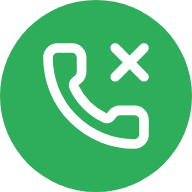
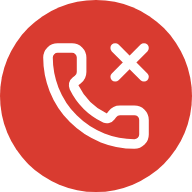
Контракт 1.14: трубка вида звонка перед текстом, пропущенный звонок красный (0.0.26)

diff --git a/internal/winui/ui.go b/internal/winui/ui.go
@@ -1161,7 +1161,8 @@ func (u *UI) drawCard(p painter, s *slot, cr rect) {
 	}
 	p.text(cardTitle(s.card), rect{left, 0, first - u.pi(6), u.pi(36)}, u.font(13, true), title, dtSingleLine|dtVCenter|dtEndEllipsis)
 	if s.card.Talking() { // «Разговор»: the number on one line, the buttons in words below
-		p.text(s.card.Body, rect{u.pi(14), u.pi(34), w - u.pi(12), u.pi(56)}, u.font(13, false), colBody, dtSingleLine|dtVCenter|dtEndEllipsis)
+		x := u.drawHandset(p, s, u.pi(45)-u.pi(handsetSize)/2)
+		p.text(s.card.Body, rect{x, u.pi(34), w - u.pi(12), u.pi(56)}, u.font(13, false), colBody, dtSingleLine|dtVCenter|dtEndEllipsis)
 		u.drawTalkButtons(p, s)
 	} else if s.pic != nil { // the sticker in place of the text; «Иван: Стикер» of a group stays next to it
 		size := u.pi(stickerPx)
@@ -1171,7 +1172,8 @@ func (u *UI) drawCard(p painter, s *slot, cr rect) {
 			p.text(s.card.Body, rect{x, u.pi(stickerTop), w - u.pi(12), u.pi(stickerTop) + size}, u.font(13, false), colMuted, dtWordBreak|dtEndEllipsis|dtEditControl)
 		}
 	} else {
-		p.text(s.card.Body, rect{u.pi(14), u.pi(34), w - u.pi(12), u.pi(70)}, u.font(13, false), colBody, dtWordBreak|dtEndEllipsis|dtEditControl)
+		x := u.drawHandset(p, s, u.pi(36)) // the middle of the first line of the text
+		p.text(s.card.Body, rect{x, u.pi(34), w - u.pi(12), u.pi(70)}, u.font(13, false), colBody, dtWordBreak|dtEndEllipsis|dtEditControl)
 	}
 	if s.card.Reply != nil {
 		u.drawReply(p, s)
@@ -1194,6 +1196,30 @@ func (u *UI) drawCard(p painter, s *slot, cr rect) {
 		p.round(at, colHint, colHint, u.pi(8))
 		p.text(cat.name, at, f, colWhite, dtSingleLine|dtVCenter|dtCenter)
 	}
+}
+
+// handsetSize: the handset of a call before the text (contract 1.14), px
+const handsetSize = 14
+
+// drawHandset draws the handset of the kind of the call at the start of the text, top at top; it returns where the
+// text begins.
+func (u *UI) drawHandset(p painter, s *slot, top int32) int32 {
+	left := u.pi(14)
+	if _, ok := handsetOf(s.card.CallKind); !ok {
+		return left
+	}
+	size := u.pi(handsetSize)
+	key := fmt.Sprint("phone", s.card.CallKind, size)
+	if u.dots == nil {
+		u.dots = map[string][]byte{}
+	}
+	pix, ok := u.dots[key]
+	if !ok {
+		pix = bgra(handset(s.card.CallKind, int(size)))
+		u.dots[key] = pix
+	}
+	p.pixels(pix, left, top, size, size)
+	return left + size + u.pi(5)
 }
 
 // iconPixels is the icon of a category of size px, kept for the next paints.

diff --git a/internal/winui/call.go b/internal/winui/call.go
@@ -1,0 +1,85 @@
+package winui
+
+import (
+	"bytes"
+	"embed"
+	"image"
+	"image/color"
+	"image/png"
+	"strings"
+	"sync"
+)
+
+// phone/<lucide>.png are the lucide handsets (the shapes of the CRM, 24 units drawn at 96×96): black strokes on
+// transparency, the alpha is the shape; handset tints them in the colour of the kind of the call.
+//
+//go:embed phone/*.png
+var phoneFiles embed.FS
+
+// handsetStyle is the handset of a kind of call (contract 1.14 §5.3.2).
+type handsetStyle struct {
+	icon  string // lucide
+	color color.RGBA
+}
+
+var (
+	handsetGrey = handsetStyle{"phone-call", rgba(0x8A, 0x8F, 0x98)} // an unknown kind
+	handsets    = map[string]handsetStyle{
+		"in":      {"phone-incoming", rgba(0x2E, 0xAD, 0x5B)},
+		"out":     {"phone-outgoing", rgba(0x33, 0x90, 0xEC)},
+		"missed":  {"phone-missed", rgba(0xD9, 0x3B, 0x30)},
+		"dropped": {"phone-off", rgba(0x8A, 0x8F, 0x98)},
+		"spam":    {"phone-incoming", rgba(0xF9, 0x73, 0x16)},
+		"ringing": {"phone-call", rgba(0x2E, 0xAD, 0x5B)},
+	}
+)
+
+// handsetOf: the handset of call_kind; false — not a call (no field).
+func handsetOf(kind string) (handsetStyle, bool) {
+	if kind == "" {
+		return handsetStyle{}, false
+	}
+	if h, ok := handsets[kind]; ok {
+		return h, true
+	}
+	return handsetGrey, true
+}
+
+var (
+	phonesOnce sync.Once
+	phones     map[string]image.Image
+)
+
+// handset is the handset of call_kind in its colour, size×size on the white of the card; nil — not a call.
+func handset(kind string, size int) *image.RGBA {
+	h, ok := handsetOf(kind)
+	if !ok {
+		return nil
+	}
+	phonesOnce.Do(func() {
+		phones = map[string]image.Image{}
+		files, _ := phoneFiles.ReadDir("phone")
+		for _, f := range files {
+			b, err := phoneFiles.ReadFile("phone/" + f.Name())
+			if err != nil {
+				continue
+			}
+			if img, err := png.Decode(bytes.NewReader(b)); err == nil {
+				phones[strings.TrimSuffix(f.Name(), ".png")] = img
+			}
+		}
+	})
+	mask, ok := phones[h.icon]
+	if !ok {
+		return nil
+	}
+	b := mask.Bounds()
+	tinted := image.NewNRGBA(b)
+	for y := b.Min.Y; y < b.Max.Y; y++ {
+		for x := b.Min.X; x < b.Max.X; x++ {
+			_, _, _, a := mask.At(x, y).RGBA()
+			tinted.SetNRGBA(x, y, color.NRGBA{h.color.R, h.color.G, h.color.B, uint8(a >> 8)})
+		}
+	}
+	return fitted(tinted, size)
+}

diff --git a/internal/api/types.go b/internal/api/types.go
@@ -33,6 +33,9 @@ type Card struct {
 	Alert bool `json:"alert,omitempty"`
 	// Category: where the card comes from (contract 1.13 §5.3.1) — its icon and colour; "" or unknown — by Kind.
 	Category string `json:"category,omitempty"`
+	// CallKind: the event is a telephone call of this kind (contract 1.14 §5.3.2) — a handset before Body: in, out,
+	// missed, dropped, spam, ringing; "" — not a call, unknown — a grey handset.
+	CallKind string `json:"call_kind,omitempty"`
 }
 
 // Sticker is the picture of a sticker: Code "<pack>/<id>", Hash the SHA-256 of the PNG at URL (a path of the portal).
@@ -120,7 +123,8 @@ type Action struct {
 func Same(a, b Card) bool {
 	if a.Key != b.Key || a.Kind != b.Kind || a.Title != b.Title || a.Body != b.Body || a.URL != b.URL || a.Count != b.Count ||
 		a.Sound != b.Sound || !a.At.Equal(b.At) || a.Mention != b.Mention || a.Talking() != b.Talking() || len(a.Actions) != len(b.Actions) ||
-		a.From != b.From || !sameReply(a.Reply, b.Reply) || !sameSticker(a.Sticker, b.Sticker) || a.Alert != b.Alert || a.Category != b.Category {
+		a.From != b.From || !sameReply(a.Reply, b.Reply) || !sameSticker(a.Sticker, b.Sticker) || a.Alert != b.Alert || a.Category != b.Category ||
+		a.CallKind != b.CallKind {
 		return false
 	}
 	for i := range a.Actions {

diff --git a/internal/winui/call_test.go b/internal/winui/call_test.go
@@ -1,0 +1,37 @@
+package winui
+
+import "testing"
+
+// Every call_kind of contract 1.14 §5.3.2 has its handset in its colour; an unknown one is grey, no field — none.
+func TestHandsets(t *testing.T) {
+	near := func(a, b uint8) bool { return int(a)-int(b) < 40 && int(b)-int(a) < 40 }
+	kinds := []string{"in", "out", "missed", "dropped", "spam", "ringing", "fax"}
+	for _, k := range kinds {
+		h, _ := handsetOf(k)
+		img := handset(k, 48)
+		if img == nil {
+			t.Fatalf("%s: no handset", k)
+		}
+		if img.RGBAAt(0, 47) != rgba(0xFF, 0xFF, 0xFF) && img.RGBAAt(47, 47) != rgba(0xFF, 0xFF, 0xFF) {
+			t.Errorf("%s: no white of the card", k)
+		}
+		found := false // a pixel of the shape in the colour of the kind
+		for y := range 48 {
+			for x := range 48 {
+				c := img.RGBAAt(x, y)
+				if near(c.R, h.color.R) && near(c.G, h.color.G) && near(c.B, h.color.B) {
+					found = true
+				}
+			}
+		}
+		if !found {
+			t.Errorf("%s: no pixel of %v", k, h.color)
+		}
+	}
+	if h, _ := handsetOf("fax"); h != handsetGrey {
+		t.Fatal("an unknown kind is not grey")
+	}
+	if handset("", 16) != nil {
+		t.Fatal("a handset for no call")
+	}
+}

diff --git a/internal/winui/category.go b/internal/winui/category.go
@@ -31,7 +31,7 @@ var (
 )
 
 var categories = map[string]category{
-	"call_missed":           {"Пропущенный звонок", catCalls},
+	"call_missed":           {"Пропущенный звонок", catAlert}, // red since 1.14, as a missed one in «Звонки»
 	"call_incoming":         {"Звонок", catCalls},
 	"queue":                 {"Клиент в очереди", catClients},
 	"client_message":        {"Сообщение клиента", catClients},

diff --git a/internal/app/app.go b/internal/app/app.go
@@ -38,7 +38,7 @@ const (
 const activeWithin = time.Minute
 
 // Contract is the version of docs/NOTIFY_CONTRACT.md the app speaks; a CRM with another major version needs another app.
-const Contract = "1.13"
+const Contract = "1.14"
 
 // Places of the cards on the screen (the setting «Где показывать уведомления»).
 const (

diff --git a/docs/APP_SPEC.md b/docs/APP_SPEC.md
@@ -1,6 +1,6 @@
 # ТЗ: приложение уведомлений AshCRM для Windows
 
-> Статус: **реализовано (0.0.7)**. Обмен с CRM — [`NOTIFY_CONTRACT.md`](NOTIFY_CONTRACT.md) (версия 1.13). Решения владельца 2026-10-30 — в `crm-ashbyte/docs/WINDOWS_NOTIFICATIONS_CRM_SPEC.md` §1; открытые вопросы закрыты умолчаниями — §7.
+> Статус: **реализовано (0.0.7)**. Обмен с CRM — [`NOTIFY_CONTRACT.md`](NOTIFY_CONTRACT.md) (версия 1.14). Решения владельца 2026-10-30 — в `crm-ashbyte/docs/WINDOWS_NOTIFICATIONS_CRM_SPEC.md` §1; открытые вопросы закрыты умолчаниями — §7.
 
 ## 1. Цель
 
@@ -104,6 +104,7 @@
 - **Стикеры** (решения владельца 11.11, ТЗ [`CRM_STICKERS.md`](CRM_STICKERS.md), контракт 1.11): у карточки с `sticker` (только стикеры из наборов компании; чужие — текстом «Стикер») вместо текста стикер 96 px, неподвижный; в группе «Иван: Стикер» — рядом серым. Картинка — статичная PNG CRM по `<портал> + url` с ключом приложения. Хранилище общее для всех сотрудников компьютера — `%ProgramData%\AshCRM-Notify\stickers`, файл `<hash>.png`: есть и SHA-256 совпала — показывается сразу, иначе скачивается, проверяется и пишется через временный файл. Подмена файла руками ни на что не влияет: сумма не совпадёт, стикер скачается заново. Пока картинки нет — текст `body`, карточка не ждёт; неудача — повтор не раньше чем через 10 минут. Папку создаёт задача SYSTEM (`--fetch-update`), если её нет — само приложение; сотрудники добавляют файлы (права `ProgramData` по умолчанию), папка программы по-прежнему только для администратора и SYSTEM. Старые файлы (30 дней без использования) удаляет само приложение, только свои: SYSTEM в папке сотрудников ничего не удаляет. Папку нельзя создать — стикеры в памяти до выхода. Фото туда не кладутся. Хэши и пути картинок не пишутся в журнал.
 - **Доставка** (контракт 1.12, ТЗ CRM `docs/tz/2026-11-12-windows-delivery.md`): вид `delivery` — бирюзовая полоса и метка «Доставка», звук `delivery` — три быстрые ноты, отличные от «клиента» и «прочего». Заметная карточка (`alert`: пинг, «Не удалось», «Срок прошёл», срочная заявка) — красные полоса, метка и заголовок, тот же звук громче и дважды, звучит и внутри 2 секунд после другого звука. Обычные карточки не вытесняют её в полоску: на экране она остаётся, пока её не прочитают, не закроют, не скроют «Скрыть все» или не уберёт CRM. Незнакомый `sound` — как `other`. Ключ `delivery-…`, «Прочитано» и ответ в чат заявки — как у остальных карточек. Отдельной громкости в приложении нет: звук идёт через громкость Windows.
 - **Единый вид** (контракт 1.13, ТЗ CRM `docs/tz/2026-11-13-windows-notification-style.md`, решения владельца 13.11): по `category` слева в первой строке значок 24 px — цветной круг с белой формой lucide, те же PNG, что `<CRM>/icons/notify/<category>.png`, встроены в приложение (`internal/winui/notify`); при наведении — название категории, клик — как по карточке. Полоса слева — цвет категории (звонки зелёный, клиенты синий, коллеги фиолетовый, процессы бирюзовый, предупреждения красный), `alert` — красная поверх. У звонка значок трубки стоит на месте ☎. Метка «Доставка» при известной категории не рисуется — её заменяет значок. `title` и `body` — как пришли, заголовок в одну строку с «…». В полоске перед числом — до четырёх точек цвета категорий тех, что не на экране, новые первыми; в списке у каждой карточки свой значок. Нет `category` или незнакомая — как в 1.12, по `kind`.
+- **Вид звонка** (контракт 1.14 §5.3.2, решение владельца 13.11): у карточки с `call_kind` перед `body` трубка lucide 14 px цвета вида — `in` входящий (`phone-incoming`, зелёный), `out` исходящий (`phone-outgoing`, синий), `missed` пропущенный (`phone-missed`, красный), `dropped` сброс (`phone-off`, серый), `spam` (`phone-incoming`, оранжевый), `ringing` (`phone-call`, зелёный), незнакомое — серая `phone-call`. Формы — те же, что в CRM, отрисованы в PNG и встроены (`internal/winui/phone`), цвет накладывается в приложении. Текст не разбирается: вид решает CRM. Категория `call_missed` — красная (значок, полоса, точка в полоске). Нет поля — как в 1.13.
 - **Проверка** (решение владельца 31.10): «Проверить уведомления» в настройках запрашивает состояние через WebSocket под текущим аккаунтом (`notify.snapshot`, CRM не меняется), показывает локальную карточку со звуком и имя сотрудника. Настоящее событие из CRM так не проверить: для этого нужно сообщение, адресованное этому сотруднику.
 - **Звук**: одна серия сообщений — один звук (не чаще раза в 2 секунды); повтора до подтверждения нет; снимок и `notify.sync` звука не дают (контракт §5.5).
 - **«Прочитано» без связи**: карточка уходит сразу, отметка отправляется после переподключения и снимка. Если за это время в чате появилось новое сообщение, отметка отменяется и карточка возвращается: иначе непрочитанное сообщение было бы прочитано вслепую. Отметки живут в памяти: после перезапуска карточка вернётся.

diff --git a/CHANGELOG.md b/CHANGELOG.md
@@ -1,5 +1,10 @@
 # Журнал изменений AshCRM Notify для Windows
 
+## [0.0.26] — 2026-11-13
+
+- **Контракт 1.14** (CRM 0.2.42): у карточек звонков перед текстом — **трубка цвета вида звонка**, как в разделе «Звонки» CRM: входящий зелёная, исходящий синяя, пропущенный красная, сброс серая перечёркнутая, спам оранжевая, идёт звонок — зелёная с волнами. Слов «Входящий / Исходящий / Пропущенный звонок» в тексте больше нет — их заменяет трубка. Незнакомый вид — серая трубка.
+- Пропущенный звонок теперь **красный**: значок и полоса карточки, точка в полоске.
+
 ## [0.0.25] — 2026-11-13
 
 - **Контракт 1.13** (CRM 0.2.41): **единый вид уведомлений**, как в колокольчике CRM, в браузере и на телефоне. Слева на карточке значок того, откуда событие: пропущенный звонок, звонок, клиент в очереди, сообщение клиента, личное сообщение, группа, упоминание, беседу передали, задача, календарь, оргполитика, доставка, предупреждение. При наведении на значок — его название.

diff --git a/README.md b/README.md
@@ -3,7 +3,7 @@
 Приложение в области уведомлений Windows 10/11: показывает уведомления AshCRM своими карточками — о том же, что
 приходит веб-пушем (личные, группы, беседы с клиентами, очередь, упоминания, задачи, календарь, тревоги).
 
-* **Обмен с CRM** — [`docs/NOTIFY_CONTRACT.md`](docs/NOTIFY_CONTRACT.md) (версия 1.13): единственное, что нужно
+* **Обмен с CRM** — [`docs/NOTIFY_CONTRACT.md`](docs/NOTIFY_CONTRACT.md) (версия 1.14): единственное, что нужно
   знать о CRM. Меняется CRM → приходит новая версия файла → приложение дописывается по ней (см. `AGENTS.md`).
 * ТЗ и принятые решения — [`docs/APP_SPEC.md`](docs/APP_SPEC.md); правила разработки — [`AGENTS.md`](AGENTS.md).
 * Нужна AshCRM 0.0.40 или новее (вход приложения и карточки).
